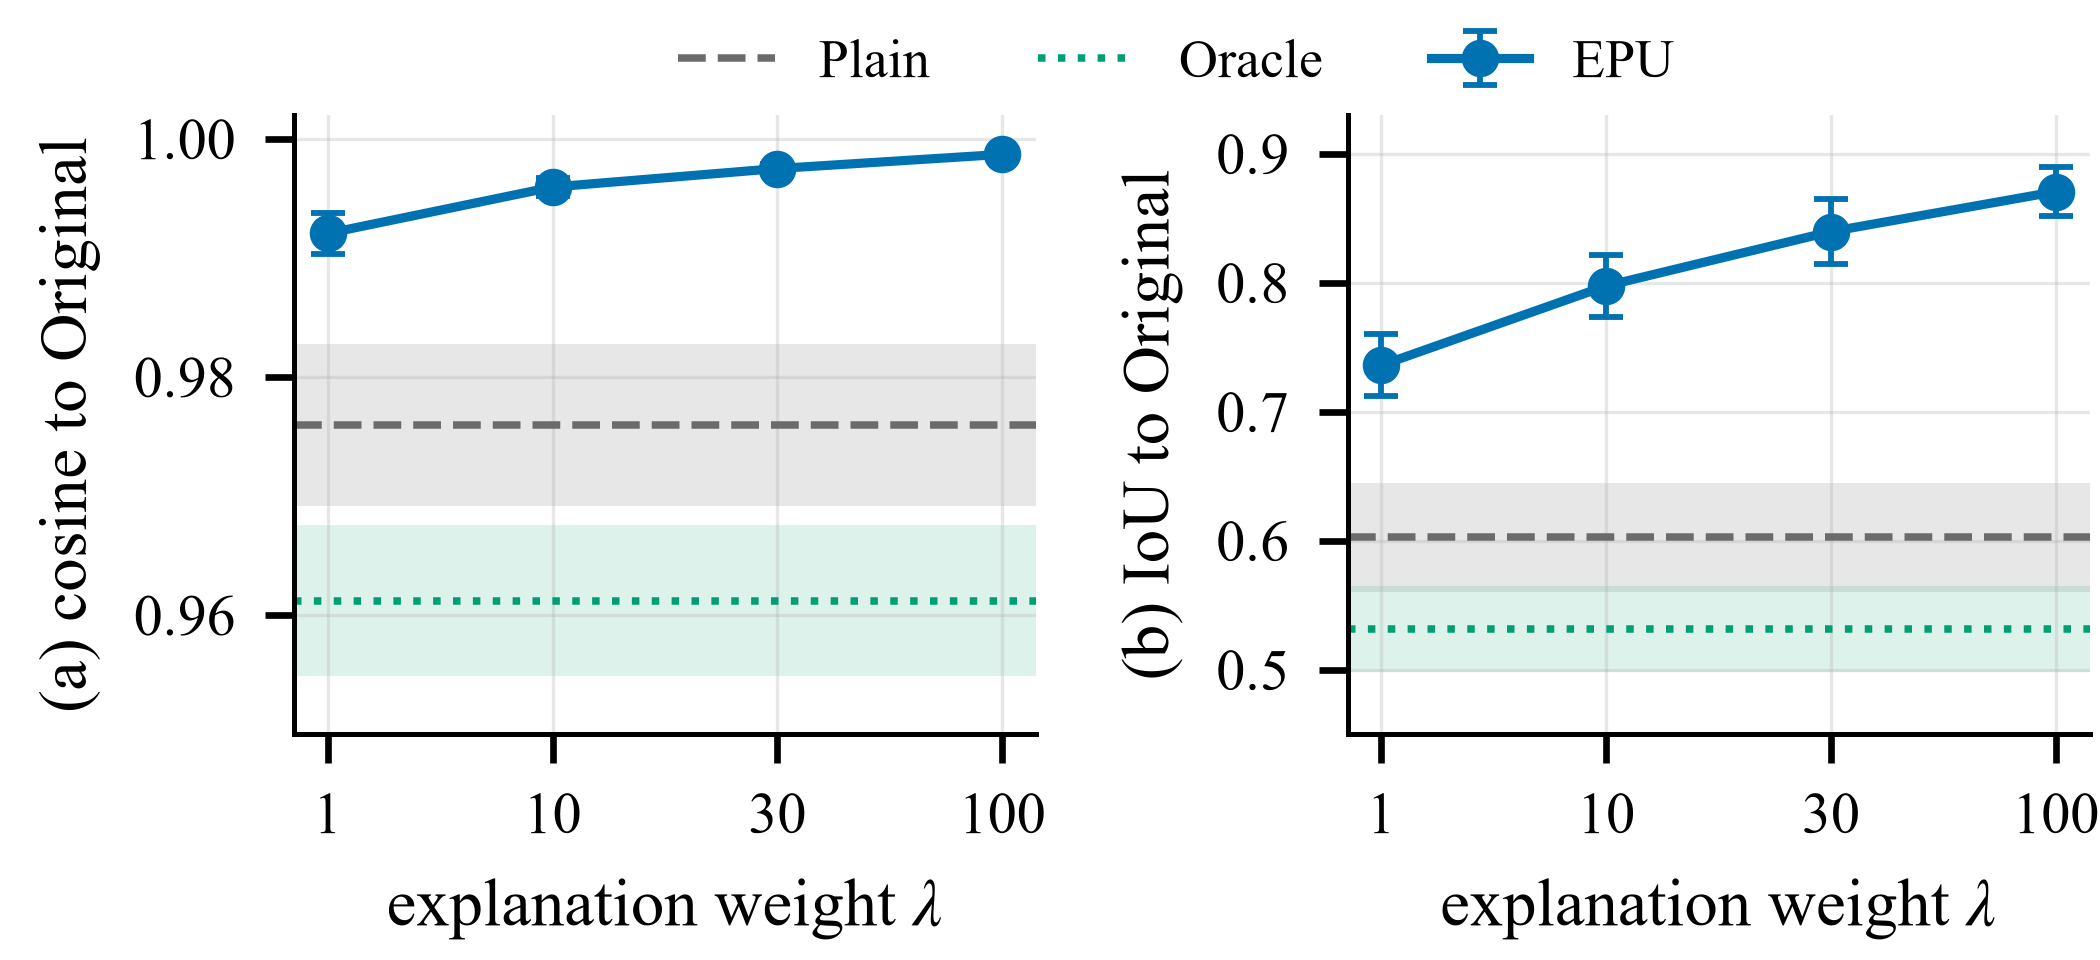
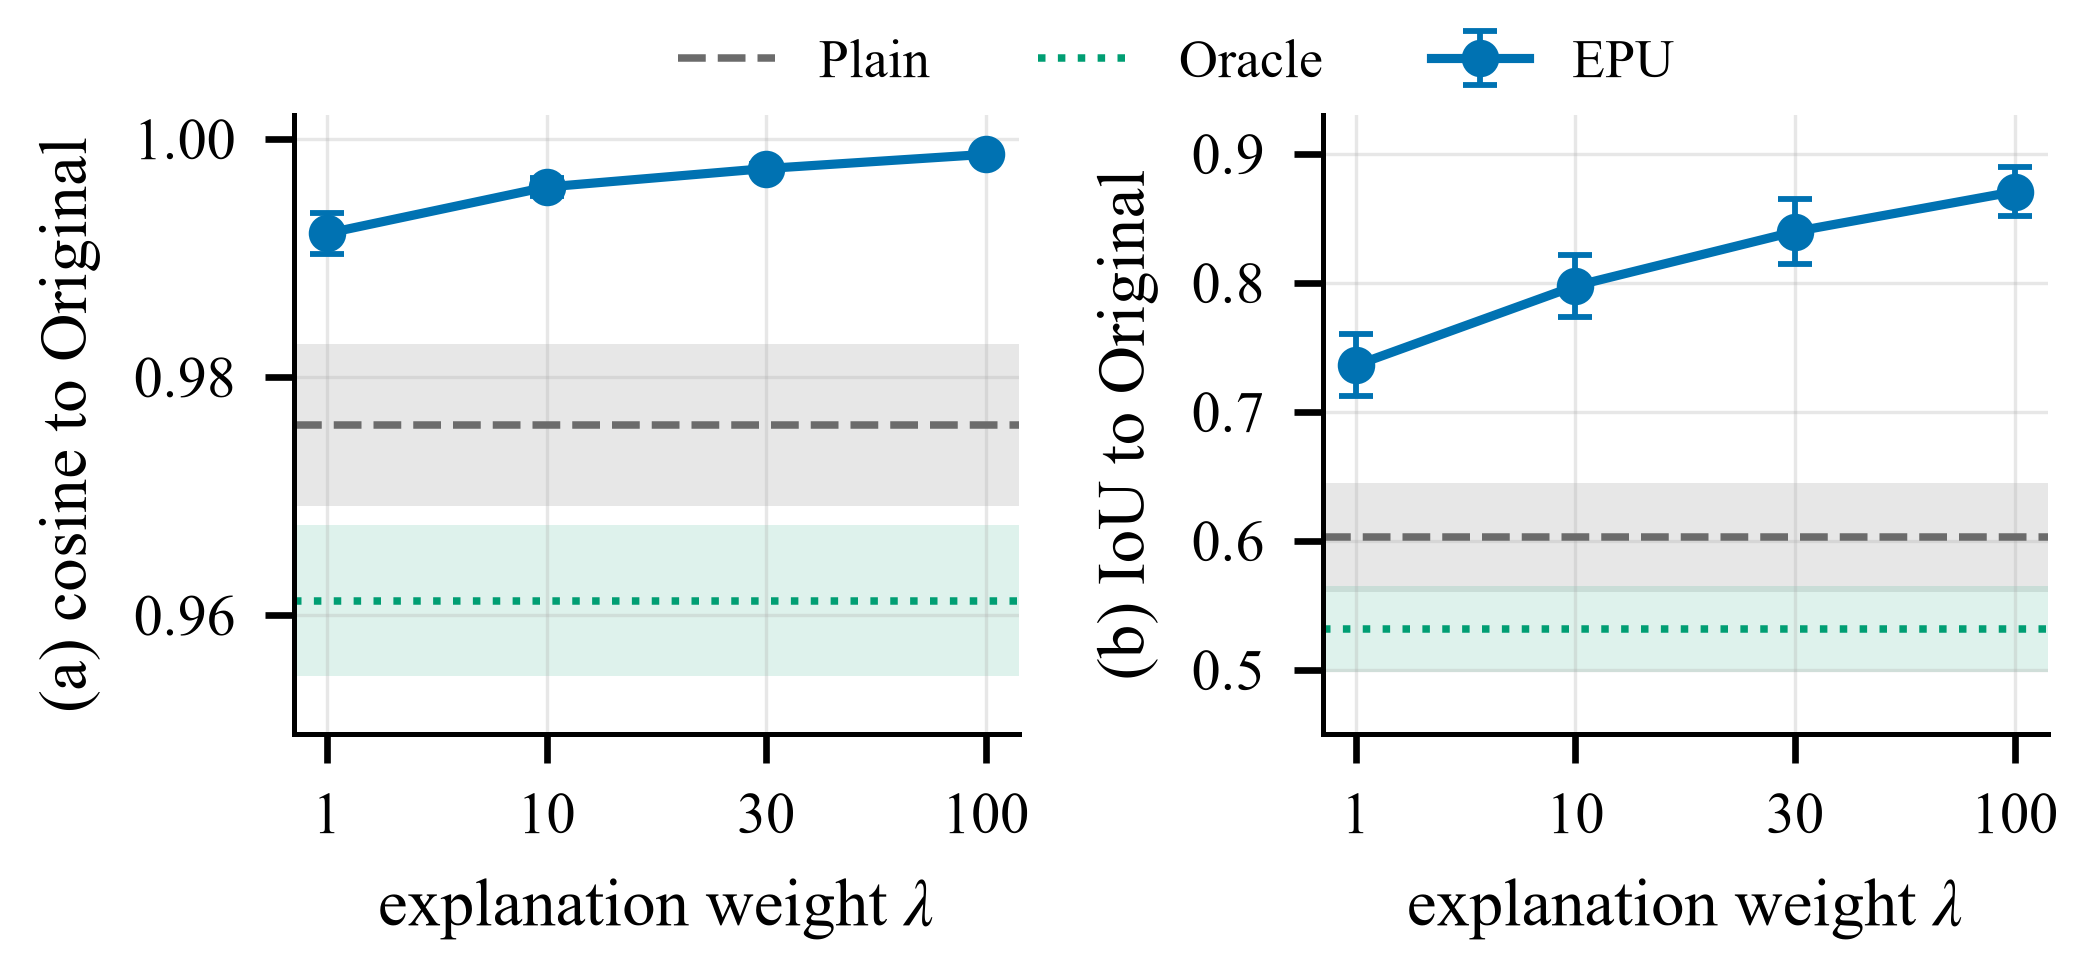
Add paired low-FPR comparison to the membership audit; black-and-white Fig. 1
- compute_forgetting_attacks.py / forgetting_attacks.csv: paired difference
  in TPR at 5% FPR between EPU and Plain, with patient-level bootstrap intervals
- verify_numbers.py: checks for the new numbers
- make_overview_fig.py, figures/fig_overview.png: black-and-white block diagram

diff --git a/paper/compute_forgetting_attacks.py b/paper/compute_forgetting_attacks.py
@@ -216,6 +216,12 @@ def main():
             pt = fast_auc(member[haspos], pos_score[a][haspos]) -                 fast_auc(member[haspos], pos_score[b][haspos])
             lo, hi = np.percentile(da, [2.5, 97.5])
             return pt, lo, hi
+        def paired_tpr(a, b):
+            """Difference in TPR at 5 % FPR of the positive-finding attack, same resamples."""
+            f = lambda k, m: tpr_at_fpr(member[k], pos_score[m][k])
+            da = [f(k, a) - f(k, b) for k in (bb[haspos[bb]] for bb in boots)]
+            lo, hi = np.percentile(da, [2.5, 97.5])
+            return f(haspos, a) - f(haspos, b), lo, hi
         for row in rows[-len(losses):]:
             key = (row["setting"], row["config"])
             if key not in pos_score:
@@ -224,6 +230,7 @@ def main():
                 row["pos_minus_original"], row["pos_minus_original_lo"],                     row["pos_minus_original_hi"] = paired(key, ("-", "original"))
             if row["config"].startswith("epu"):
                 row["pos_minus_plain"], row["pos_minus_plain_lo"], row["pos_minus_plain_hi"] =                     paired(key, (row["setting"], "finetune_retain"))
+                row["tpr_minus_plain"], row["tpr_minus_plain_lo"], row["tpr_minus_plain_hi"] =                     paired_tpr(key, (row["setting"], "finetune_retain"))
             print(f"  {row['setting']} {row['config']:16s} loss {row['loss_auc']:.3f} | calibrated "
                   f"{row['calibrated_auc']:.3f} | positive {row['positive_auc']:.3f} "
                   f"[{row['positive_auc_lo']:.3f}, {row['positive_auc_hi']:.3f}] | within "

diff --git a/paper/make_overview_fig.py b/paper/make_overview_fig.py
@@ -29,14 +29,14 @@ plt.rcParams.update({
     "savefig.dpi": 600,
 })
 
-INK, ARROW = "#1f1f1f", "#333333"
-RED = ("#f6ddd8", "#b4574d")        # input data
-GREEN = ("#dcecdd", "#5d9163")      # central pipeline
-BLUE = ("#dae5f3", "#557bb0")       # helper blocks
-ORANGE = ("#f7e6cf", "#b8843c")     # models compared
-PURPLE = ("#e3dff5", "#7768b6")     # evaluation
-GREY = ("#ececec", "#8a8a8a")       # run conditions
-CONT = ("#f7f7f7", "#9a9a9a")       # container
+INK, ARROW = "#000000", "#000000"
+# Black and white: every block is white with a black outline. The only shading is
+# light grey for the frozen (no-gradient) model and the run-condition bars.
+WHITE = ("#ffffff", "#000000")
+RED = GREEN = BLUE = ORANGE = PURPLE = WHITE
+FROZEN = ("#e2e2e2", "#000000")     # frozen reference model
+GREY = ("#ececec", "#000000")       # run conditions
+CONT = ("#ffffff", "#000000")       # container
 
 W = 716.0
 Y0, Y1 = -20.0, 440.0                # drawing units; 100 units = 1 inch
@@ -111,7 +111,7 @@ def main():
     block(ax, cx0, 272, cw, 32, r"Original model  $\theta_o$",
           ["best validation round (early stopping)"], GREEN)
     block(ax, rx0, 272, rw, 32, r"Frozen reference  $\theta_o$",
-          [r"rollout map $\mathbf{M}_{\theta_o}(x)$, no gradient"], BLUE)
+          [r"rollout map $\mathbf{M}_{\theta_o}(x)$, no gradient"], FROZEN)
     px = ix[2] + iw / 2
     route(ax, [(px, iy), (px, 388), (cc, 388), (cc, 354)])
     head(ax, (rx0, 338), (cx0 + cw, 338))

diff --git a/paper/make_paper_figs.py b/paper/make_paper_figs.py
@@ -134,7 +134,7 @@ def fig_dose_response():
     h, l = axes[0].get_legend_handles_labels()
     fig.legend(h, l, frameon=False, loc="upper center", ncol=3, handlelength=1.8,
                bbox_to_anchor=(0.56, 1.01))
-    fig.subplots_adjust(left=0.14, right=0.995, top=0.88, bottom=0.235, wspace=0.42)
+    fig.subplots_adjust(left=0.14, right=0.975, top=0.88, bottom=0.235, wspace=0.42)
     save(fig, "fig_dose_response")
 
 
